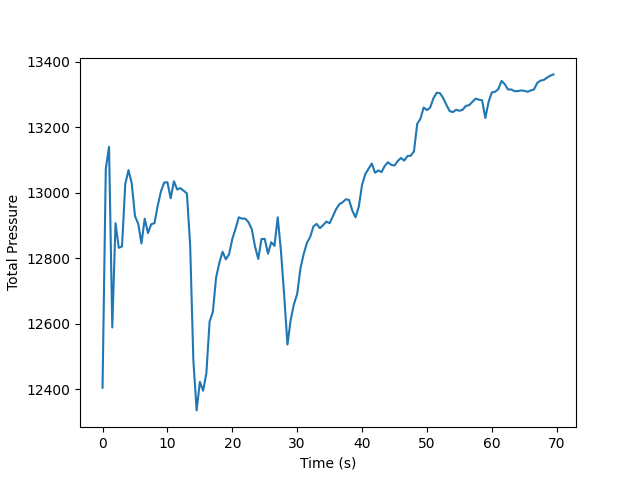
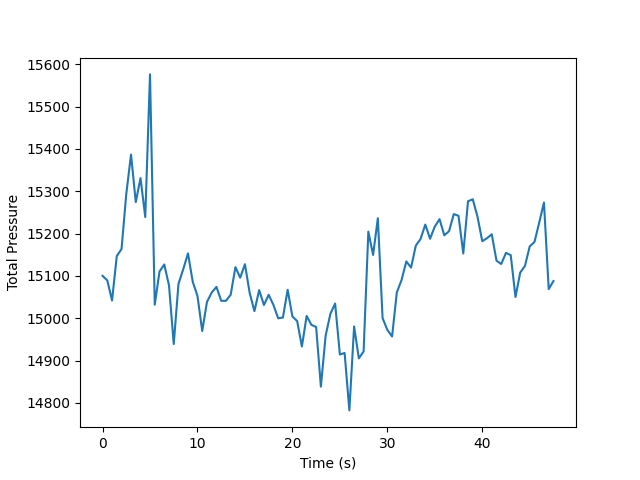
Add peak counter

diff --git a/core/breathing_tracker.py b/core/breathing_tracker.py
@@ -5,6 +5,10 @@ from pathlib import Path
 from typing import List
 
 import matplotlib.pyplot as plt
+import numpy as np
+from scipy import stats
+from scipy.fft import irfft, rfft, rfftfreq
+from scipy.signal import argrelextrema, find_peaks
 
 from utils import logger
 
@@ -40,14 +44,33 @@ def get_total_pressure_list(data: List[List[int]]) -> List[int]:
     return [sum(stream) for stream in data]
 
 
+def get_peaks(data, threshold=0) -> np.ndarray:
+    return data[find_peaks(data, threshold=threshold)[0]]
+
+
+def apply_fft(data: List[int], fft_threshold=350) -> np.ndarray:
+    yf = rfft(data)
+    yf_abs = np.abs(yf)
+    indices = yf_abs > fft_threshold  # filter out those value under threshold
+    yf_clean = indices * yf  # noise frequency will be set to 0
+
+    return irfft(yf_clean)
+
+
 def plot_respiratory_pattern(pressure_list: List[int], save_path: Path) -> None:
-    x_data = [
-        value / 2 for value in range(len(pressure_list))
-    ]  # Considering we are sampling twice per second
-    y_data = pressure_list
+    clean_data = apply_fft(data=pressure_list, fft_threshold=370)
+    t = np.arange(start=0, stop=int(len(pressure_list) / 2), step=0.5)
+
+    # get peaks
+    peak_threshold = 4
+    peaks = get_peaks(data=clean_data, threshold=4)
+    logger.info(f"Number of peaks: {len(peaks)} with threshold: {peak_threshold}")
+
+    plt.plot(t, clean_data)
+
     fig = plt.figure()
     ax = fig.add_subplot(1, 1, 1)
-    ax.plot(x_data, y_data)
+    ax.plot(t, clean_data)
     ax.set_xlabel("Time (s)")
     ax.set_ylabel("Total Pressure")
 
